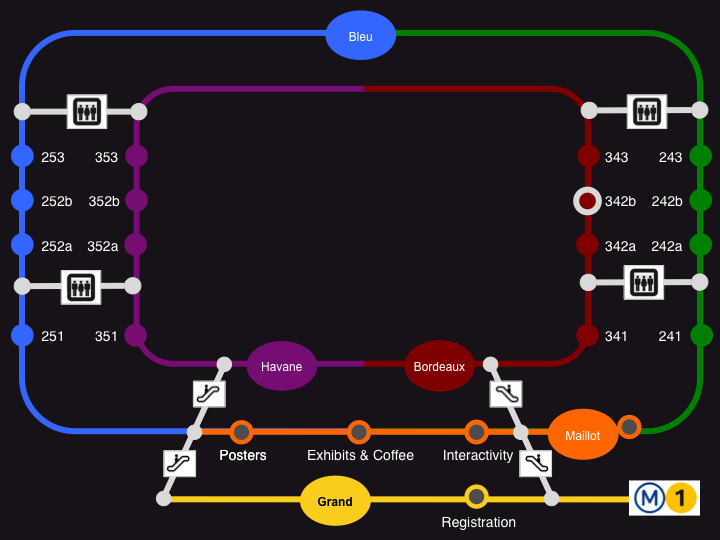
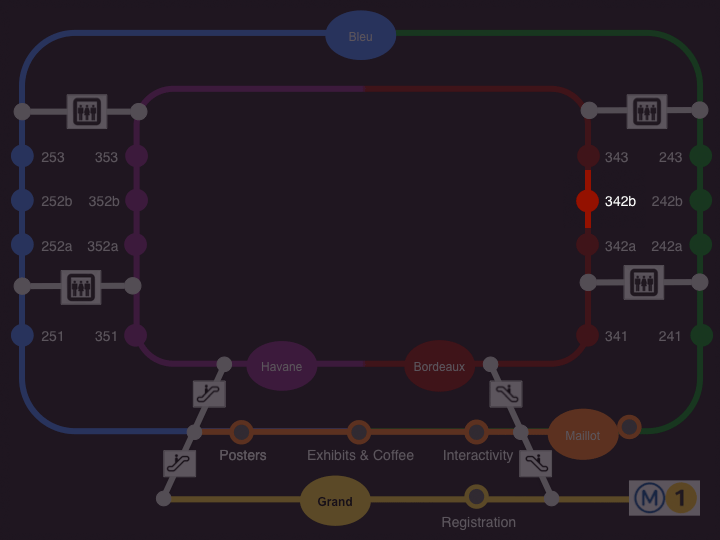
Updated metro maps that highlight room better

Changed region(s): [[0.0, 0.0, 1.0, 0.9778], [0.2139, 0.1481, 0.7944, 0.1778]]

diff --git a/html/madness/vertical.html b/html/madness/vertical.html
@@ -186,7 +186,7 @@
                 file: '/videos/' + paper.video,
                 mute: true,
                 controlbar: "none",
-                duration: 30,
+                duration: 15,
                 autostart: true,
                 events: {
                     onComplete: function(complete) {
